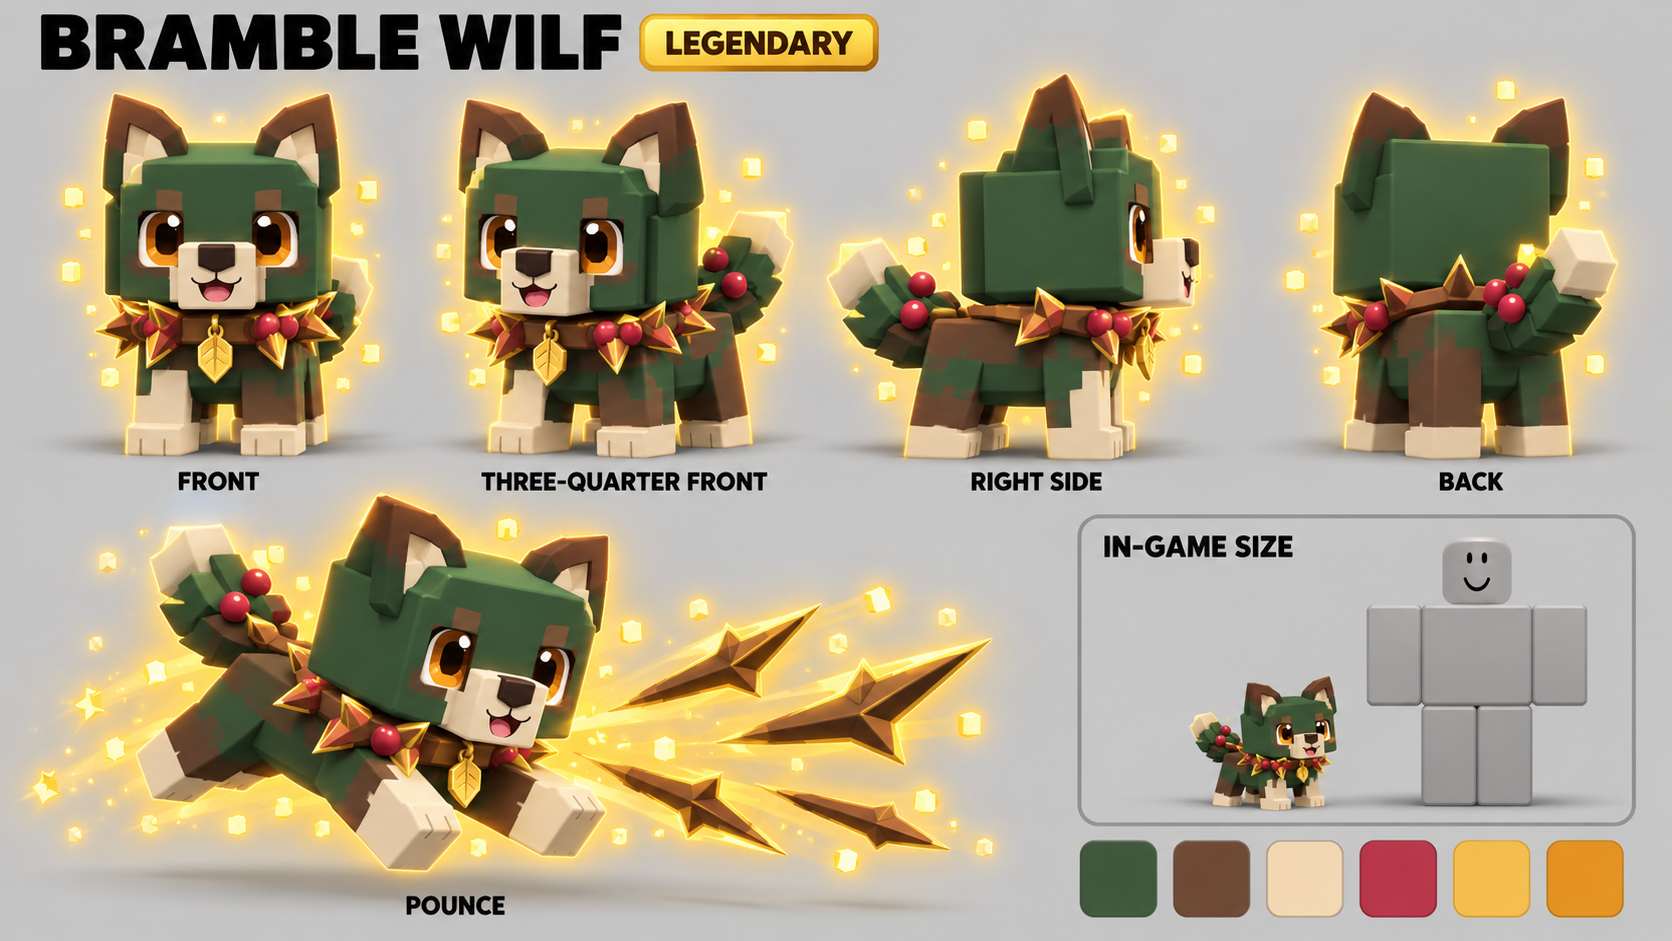
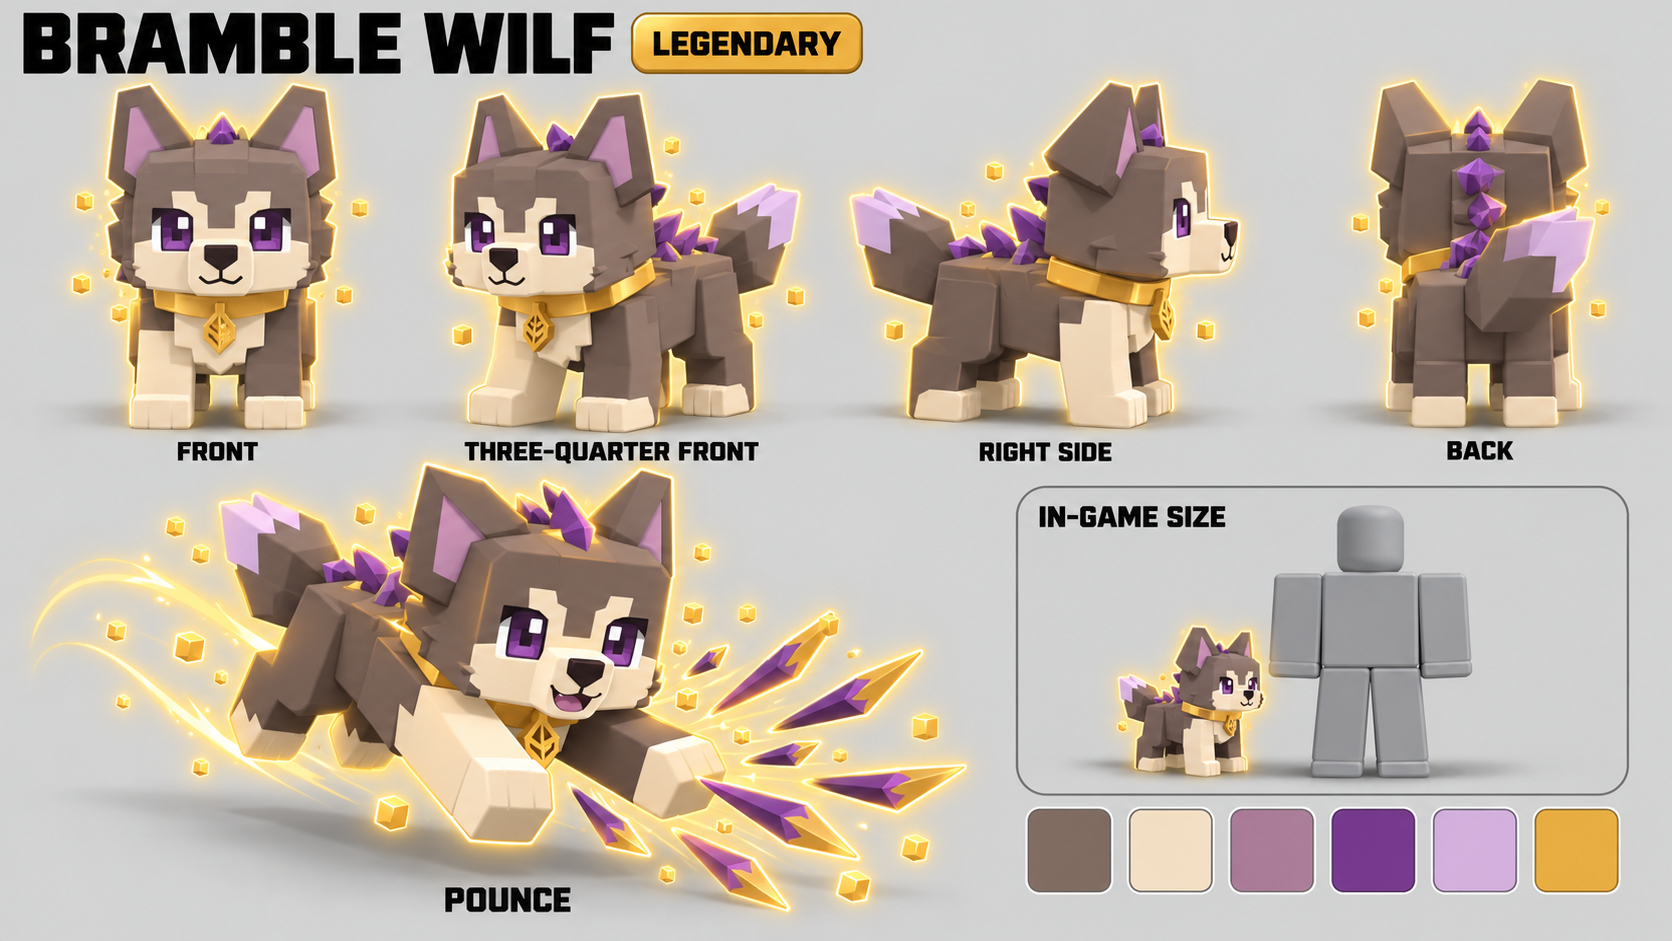
Thornwood design: the Thornwake as the Mythic pet, the Bramble Wilf recoloured, masculine Mythic weapons (#393)

diff --git a/docs/PETS-THORNWOOD.md b/docs/PETS-THORNWOOD.md
@@ -30,7 +30,14 @@ Concept sheets (Codex, 2026-10-26) are in
 layout (`assets/concepts/pets/forest/`: title and rarity badge; front,
 three-quarter front, right side, back; an action pose; in-game size next to
 a Roblox avatar; six-colour palette), plus `13_thornwood_egg.png` (egg,
-stand, hatch, golden egg) and `contact_sheet.png` with all twelve.
+stand, hatch, golden egg) and `contact_sheet.png` (eleven pets, then a row
+of the three Mythic options). The dropped Briarbloom's sheet is kept aside as
+`options/12x_briarbloom_old_views.png`.
+
+**Owner's changes (2026-10-26):** "the bramble wilf color scheme needs to
+be fixed, the mythic pet needs to be something else." The Bramble Wilf is
+recoloured (below), and the Briarbloom peacock is replaced by three Mythic
+options for the owner to pick from (*The Mythic: three options*).
 
 **Spiders.** Act 1's regular enemies have no spiders (owner, 2026-10-22);
 the Broodmother's Thornlings are hers alone. The Thorn Princess is her heir,
@@ -88,9 +95,9 @@ unchanged, as in area 1.
 | 7 | **Berry Bat** | Rare | a bark-brown cube bat with wide angular purple slab wings and one glowing magenta berry at its throat | the purple bramble bushes and their berries |
 | 8 | **Bramble Bear** | Epic | an upright forest-green bear cub with huge vine-wrapped forearms, glowing plum vine markings | raises Thornwood's hedges with its fists |
 | 9 | **Briar Lynx** | Epic | a crouching lime-and-green lynx kitten with tall plum thorn ear tufts, cheek flares, a bobtail and glowing pink slash markings | its ear thorns and crossed blades echo the briars |
-| 10 | **Bramble Wilf** | Legendary | the Bramble Wilf (`PETS-WILFS.md`): a green and bark-brown pup with a blunt-thorn and berry collar, now gold-edged with a golden aura | the area's Wilf, the second of the ten |
+| 10 | **Bramble Wilf** | Legendary | the Wilf shape in ashy bramble-bark fur, ivory mask, chest and right-front sock, a ridge of purple thorns down neck and back, a lilac tail tip, a gold collar and golden aura | the area's Wilf, the second of the ten |
 | 11 | **Thorn Princess** | Legendary | a cute lavender baby spider, eight short slab legs, olive-gold back plates, magenta crystal thorns and a gold crown | heir to the area's boss, the Broodmother |
-| 12 | **Briarbloom** | Mythic | a floating cream-headed peacock with a huge fan of seven plum and green leaf slabs tipped with cream thorns and glowing gems | the flowering heart of the brambles |
+| 12 | **Thornwake** | Mythic | a wingless baby dragon: ivory cube head, long smoky-teal body, plum leaf fins with ivory thorn tips, berry belly plates, S-shaped tail (`12_thornwake_views.png`) | |
 
 Three Commons, then two per tier up to Legendary, and one Mythic, as in
 Mossy Glade.
@@ -101,7 +108,9 @@ two big ears and a hook tail; Thistle Mole a low box with two wide paws in
 front; Briar Beetle a round shell with a horn; Berry Bat two wide wings;
 Bramble Bear tall with two big fists; Briar Lynx two tall ear tufts;
 Bramble Wilf the Wilf family's shape; Thorn Princess an eight-legged star;
-Briarbloom a fan.
+the Mythic options a spiral tail (Bramblecoil), a long S (Thornwake) or a
+root frame (Briarwish; drawn upright, so from above it reads as a bar, not
+the flat open diamond Codex proposed).
 
 ## Attacks
 
@@ -124,7 +133,7 @@ and the Mythic add effect pieces, as area 1's do.
 | Briar Lynx | Epic | Shoots | **Thorn Shears**: every 6 s crosses its claws to fling two thorn blades that hit one target from opposite sides |
 | Bramble Wilf | Legendary | Shoots | **Briar Pounce**: every 8 s pounces on an enemy and a fan of gold-edged thorn needles bursts forward as it lands, then bounds home round cover |
 | Thorn Princess | Legendary | Controls | **Princess Stitch**: every 10 s stitches three sparkling magenta web strands across a group of enemies for 3 s, hurting and slowing whatever crosses them |
-| Briarbloom | Mythic | Shoots | **Thousand-Thorn Bloom**: every 12 s opens its fan and sends three rings of rainbow thorn needles outward, each ring hitting every enemy it reaches once |
+| Thornwake | Mythic | Shoots | **Briar Wheel**: every 14 s its tail curls into a glowing thorn wheel that rolls off and ricochets between up to three enemies, one heavy hit each |
 
 Thornwood's flavours are thorns, burrs that slow, web strands, bramble
 walls and boar charges, so none repeats an area-1 attack. Two notes for
@@ -132,6 +141,44 @@ when they are built: Little Tusk Rush and Briar Pounce move the pet to an
 enemy and back, like the Glade Fox's Leaf Dash, so they would use
 `Shared/Util/PetDash` (round cover, never through it); Hedge Gate's barrier
 must not block the player.
+
+## The Bramble Wilf's colours
+
+Recoloured on the owner's word (2026-10-26): the first sheet's dark forest
+green with a red berry collar read like the Bramble Bear, not like
+Thornwood's Wilf. Now (Codex): **cool ashy bramble-bark fur** (`#76675F`) on
+head, body, legs and tail; an **ivory** (`#F3E6CB`) square muzzle mask, chest
+patch and paws; the Wilf marking kept, a long ivory **sock on the front
+right leg** from foot to body, the front left only a short paw; **mauve**
+ear insides (`#B38AAB`); a narrow ridge of blunt **purple thorn wedges**
+(`#8246A6`) down neck and back like a mane; a **pale lilac** tail tip
+(`#D7BCEB`); purple eyes; and the Legendary **gold collar** (`#E9BC53`),
+golden aura and sparkles. Grey-brown keeps it apart from the green Bear,
+the orange Ember Wilf, the chestnut Hoglet and the darker Berry Bat, and
+keeps purple to an accent so it is not one more plum pet.
+`PETS-WILFS.md` still lists the old "forest green and bark brown" coat;
+this replaces it if the owner keeps it.
+
+## The Mythic: the Thornwake (owner's pick, 2026-10-26: "Make the Thornwake the Thornwood Mythic pet.")
+
+The owner picked the Thornwake from the three options below. The other two and the dropped Briarbloom are kept in `pets/thornwood/options/`.
+
+### The three options, as offered
+
+The Briarbloom peacock is dropped (owner, 2026-10-26: "the mythic pet needs
+to be something else"; its sheet is kept as `options/12x_briarbloom_old_views.png`).
+Codex proposed three replacements, none a bird, bug, spider or wolf and none
+repeating another pet; **the owner picks one**. Each has the Mythic
+treatment: it floats, with a rainbow sheen, a ring of light and orbiting
+motes.
+
+| Option | Sheet | Look | Ties to the area | Role | Attack |
+|---|---|---|---|---|---|
+| **Bramblecoil** | `options/12a_bramblecoil_views.png` | a chameleon: ivory cube head, orchid body, mitten feet, deep-bramble leaf plates and blunt thorns on its back, and a huge square-spiral tail | camouflaged as purple bramble leaves, berry-pink cheeks | Shoots | **Prismatic Press**: every 12 s a huge glowing leaf stamp appears over a group of enemies and presses down once in a rainbow flash |
+| **Thornwake** | `12_thornwake_views.png` (picked) | a wingless baby dragon: ivory cube head, long smoky-teal body, plum leaf fins with ivory thorn tips down its spine, berry belly plates, an S-shaped tail | its back is a living bramble vine | Shoots | **Briar Wheel**: every 14 s its tail curls into a glowing thorn wheel that rolls off and ricochets between up to three enemies, one heavy hit each |
+| **Briarwish** | `options/12c_briarwish_views.png` | a tiny lilac cube spirit floating inside a big upright diamond frame of stepped bramble roots, plum leaves on its corners, a pink thistle tuft on its head | roots, leaves and a thistle | Tanks, shoots | **Wishcatcher**: every 16 s its frame catches up to five enemy shots for 2 s, then fires them back as rainbow leaf darts (beams and boss attacks are not caught) |
+
+Codex's own pick is the Thornwake, for the biggest spectacle.
 
 ## Palettes
 
@@ -146,17 +193,19 @@ must not block the player.
 | Berry Bat | `#654637` `#492B50` `#865084` `#EBDDBD` `#F052B5` `#E5AA42` |
 | Bramble Bear | `#284D36` `#57734A` `#653D70` `#EBDDBB` `#BE78FF` `#292334` |
 | Briar Lynx | `#ACCF59` `#3D7146` `#F0E1BC` `#653D70` `#F277BF` `#E7AC40` |
-| Bramble Wilf | `#2F593C` `#624534` `#F0DFBC` `#CD4053` `#E9BC53` `#D99532` |
+| Bramble Wilf | `#76675F` `#F3E6CB` `#B38AAB` `#8246A6` `#D7BCEB` `#E9BC53` |
 | Thorn Princess | `#9A66B0` `#57335F` `#99934B` `#F05EC5` `#EBC353` `#302238` |
-| Briarbloom | `#F4E7CC` `#74477E` `#59345F` `#42734C` `#85E5DD` `#F2A2D8` |
+| Bramblecoil | `#F2E6CD` `#AB78CA` `#51365F` `#E76DA8` `#8DE3C8` `#F5D77E` |
+| Thornwake | `#F4E7CF` `#527A78` `#633E76` `#D96B91` `#A4ECE5` `#F3D486` |
+| Briarwish | `#DCCBEA` `#F2E5C8` `#817366` `#654073` `#E98CB9` `#A4E7DE` |
 
 ## Open decisions (the owner's)
 
-1. **Which pets to keep**, and which go to 3D first. The Bark Hoglet, the
-   Bramble Wilf and the Thorn Princess tie most closely to the area; the
-   Briarbloom shows the top of the ladder.
-2. **The attacks**: the table above is a proposal.
-3. **The Golden Thornwood Egg**: a second egg, or only a look.
-4. **The Bramble Wilf as a Legendary**: `PETS-WILFS.md` gives every area a
+1. ~~**The Mythic**~~: decided, the Thornwake (owner, 2026-10-26).
+2. **Which pets to keep**, and which go to 3D first. The Bark Hoglet, the
+   Bramble Wilf and the Thorn Princess tie most closely to the area.
+3. **The attacks**: the table above is a proposal.
+4. **The Golden Thornwood Egg**: a second egg, or only a look.
+5. **The Bramble Wilf as a Legendary**: `PETS-WILFS.md` gives every area a
    Wilf; here it takes a Legendary slot, as the Ember Wilf does in Mossy
    Glade.

diff --git a/docs/WEAPONS-THORNWOOD.md b/docs/WEAPONS-THORNWOOD.md
@@ -40,9 +40,21 @@ all fifteen side by side in `contact_sheet.png` there.
 | Rare | Plum Burr Bow | Burr Totem Staff | Plumguard Blade |
 | Epic | Lurker Vine Bow | Lurker Crest Staff | Burrcrest Blade |
 | Legendary | Silkweaver Bow | Silk Diadem Staff | Silkbound Blade |
-| Mythic | Prism Thistle Bow | Rainbow Burr Staff | Crownspike Blade |
+| Mythic | Ironwrath Bow | Ruinmaul Staff | Havocjaw Blade |
 
 ---
+
+**The Mythics are the masculine set** (owner, 2026-10-26: "the mythic
+weapons for this one should be masculine and really cool. the gladeheart
+mythics are cool for area 1 and are more feminine. i want a more masculine
+design for these ones"). Area 1's Glade Spirit Bow, Worldroot Staff and
+Gladeheart Blade are elegant (flowers, leaves, pastel sparkle); Thornwood's
+are their opposite: heavy and angular, in blackened bramble wood, dark iron
+and obsidian, with tusks, thorn spikes and a fierce boar-head emblem, and
+their Mythic rainbow is fierce energy (cracks, runes, edge glow, flame-like
+wisps). Redesigned and renamed by Codex the same day; the first drafts
+(Prism Thistle Bow, Rainbow Burr Staff, Crownspike Blade) are kept as
+`*_old_views.png`.
 
 ## Ranger — bows
 
@@ -71,14 +83,18 @@ fine violet silk ribbons.
 (Web Snare: hits slow 30% for 2 s, refreshed by further hits; bosses slowed
 less.)
 
-**Prism Thistle Bow** (Mythic) `prism_thistle_bow_views.png`.
-Broad plum limbs in stepped thistle shapes, big cream thorn plates sweeping
-out from an olive-gold grip; the string, magenta inset crystals and limb
-edges glow rainbow.
-*Projectile:* a faceted magenta thorn arrow with a rainbow ribbon trail.
-*Effect:* "Thistle arrows: every third hit bursts into thorns around the
-target." (Thorn Burst: 60% weapon damage to the target and enemies near it;
-a burst cannot set off another.)
+**Ironwrath Bow** (Mythic) `ironwrath_bow_views.png`.
+A massive recurve war bow: thick angular limbs of blackened bramble wood
+armoured in dark iron plates, ivory tusk hooks at the tips, jagged cream
+thorn spikes along the limbs, a fierce iron boar-head emblem above the
+leather grip. Rainbow energy burns through cracks in the limbs and the
+emblem's eyes; the string is rainbow light; flame-like rainbow wisps stream
+off the tips.
+*Projectile:* a heavy black arrow with a barbed obsidian head, a blazing
+rainbow core and a short jagged rainbow trail.
+*Effect:* "Thistle arrows: every third hit erupts into jagged thorns around
+the target." (Thorn Burst: 60% weapon damage to the target and enemies near
+it; a burst cannot set off another.)
 
 ## Arcanist — staffs
 
@@ -109,15 +125,17 @@ glowing gold squares.
 (Root Hold: the first enemy the fourth orb hits is held 1 s; bosses are
 slowed 40% instead. Can reuse `Shared/Util/RootHold`.)
 
-**Rainbow Burr Staff** (Mythic) `rainbow_burr_staff_views.png`.
-A straight olive-gold shaft holding a large plum burr frame of six blunt
-cream spikes round a floating rainbow prism orb, a rainbow halo ring round
-the head; the orb, shaft inlays and the purple pointed foot glow rainbow; a maroon wrap keeps the handhold clear.
-*Projectile:* a rainbow prism cube trailing rainbow voxel squares (as drawn;
-close to the Worldroot Staff's, so a candidate for a redraw).
-*Effect:* "Burr spores: every orb leaves a stacking poison on its target."
-(Spore Poison: each hit adds a stack of 30% weapon damage over 3 s, up to
-five; cheerful green bubbles; poison sets off no other hit effects.)
+**Ruinmaul Staff** (Mythic) `ruinmaul_staff_views.png`.
+A long straight shaft of blackened bramble wood bound in dark iron, a pointed
+iron foot, and on top a heavy squared mace-like head of dark iron and
+obsidian with ivory tusk flanges and cream thorn spikes, plum and olive-gold
+trim. Carved runes blaze rainbow and rainbow fire vents from cracks in the
+head.
+*Projectile:* a dense obsidian orb with burr studs and molten rainbow
+cracks, trailing a tight tongue of rainbow flame.
+*Effect:* "Burr blight: every orb poisons its target, stacking with repeated
+hits." (Each stack 30% weapon damage over 3 s, up to five; poison sets off no
+other hit effects.)
 
 ## Warden — blades
 
@@ -145,14 +163,16 @@ purple pommel. The rune and silk seams glow.
 (Boar Rush: the third-blow slam pushes enemies in its area back 8 studs;
 bosses resist; walls stop them.)
 
-**Crownspike Blade** (Mythic) `crownspike_blade_views.png`.
-A broad straight plum greatsword, two thick cream edge rails framing a column
-of big magenta crystal plates; an olive-gold crown-shaped crossguard,
-maroon-wrapped grip, gold block pommel. The crystals, edges and pommel inset
-glow rainbow.
-*Effect:* "Crown cracks: the slam makes struck enemies take more damage."
-(Crystal Fracture: enemies the slam hits take 30% more damage from players
-and pets for 4 s; refreshes, does not stack.)
+**Havocjaw Blade** (Mythic) `havocjaw_blade_views.png`.
+A very broad cleaver-like greatsword: a flat black obsidian blade with a thick
+dark-iron spine, angular cream thorn teeth along the back edge, plum inlays;
+the crossguard a fierce iron boar head whose ivory tusks sweep up the blade;
+leather grip, heavy iron pommel with a rainbow gem. Rainbow energy sears
+through cracks across the blade and runs the whole cutting edge, flaring
+into flame-like wisps.
+*Effect:* "Ruin cracks: the slam makes struck enemies take more damage."
+(Enemies the slam hits take 30% more damage from players and pets for 4 s;
+refreshes, does not stack.)
 
 ## Open decisions (the owner's)
 

diff --git a/docs/PETS-WILFS.md b/docs/PETS-WILFS.md
@@ -34,7 +34,7 @@ palette), and `contact_sheet.png` shows all ten.
 | # | Wilf | Area | Act | Look | Action pose |
 |---|---|---|---|---|---|
 | 1 | **Ember Wilf** | Mossy Glade | 1 · The Wilds | ginger and cream, ember-glowing ear and tail tips, a gold leaf tag | zoomies |
-| 2 | **Bramble Wilf** | Thornwood | 1 | forest green and bark brown, a collar of blunt thorns, red berries | pounce |
+| 2 | **Bramble Wilf** | Thornwood | 1 | ashy bramble-bark grey-brown, ivory mask, chest and front-right sock, a ridge of purple thorns, lilac tail tip (recoloured 2026-10-26, `PETS-THORNWOOD.md`) | pounce |
 | 3 | **Tide Wilf** | Drowned Village | 2 · The Lowlands | sea teal and foam white, fin ears and tail, sailor neckerchief, anchor tag | splash |
 | 4 | **Glowcap Wilf** | Bogheart Caverns | 2 | bog purple and moss, glowing cyan mushroom caps along its back | spore sneeze |
 | 5 | **Gale Wilf** | Windswept Cliffs | 3 · The Heights | sky blue and cloud white, little feather wings, a wind-swirl tail, goggles | glide |
